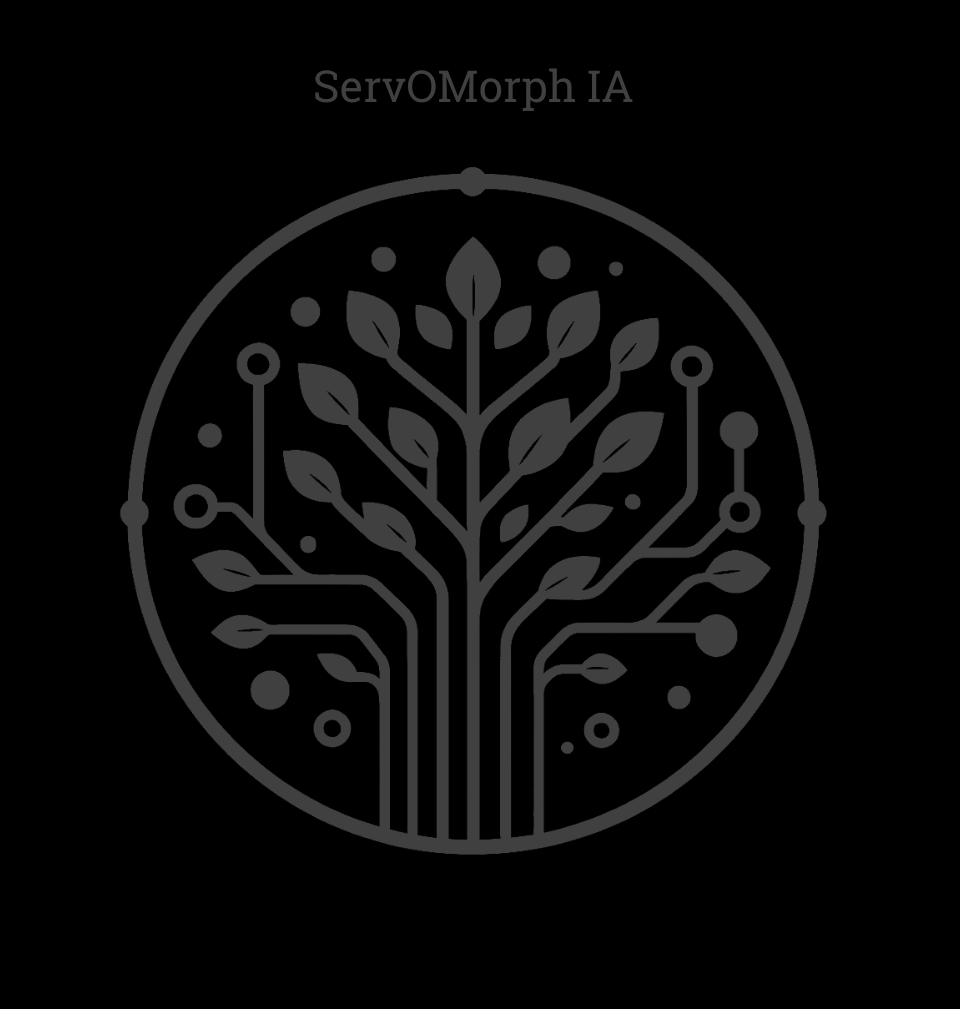
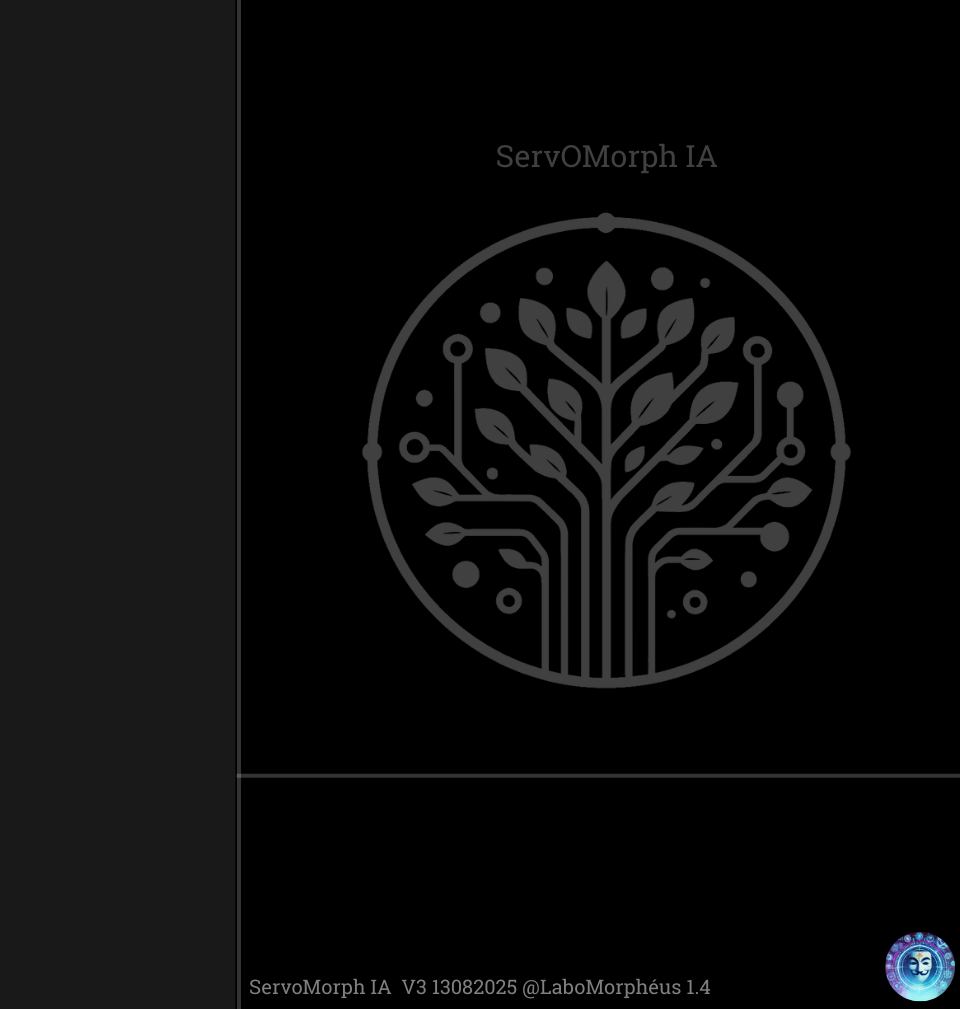
zone chat, param, conv créés

diff --git a/ui_main.py b/ui_main.py
@@ -2,7 +2,10 @@ import os
 import ctypes
 from ctypes import wintypes
 import pygame
-import config_ui  # ton fichier de config
+import ui.config_ui  
+from ui.zones.zone_chat import ZoneChat
+from ui.zones.zone_liste_conv import ZoneListeConv
+from ui.zones.zone_param import ZoneParam
 
 # --- Win32
 user32 = ctypes.windll.user32
@@ -50,7 +53,7 @@ def main():
 
     pygame.init()
     window = pygame.display.set_mode((win_w, win_h), pygame.RESIZABLE)
-    pygame.display.set_caption("IA_V3 - Interface Pygame (moitié gauche écran)")
+    pygame.display.set_caption("ServOMorph IA - V3")
 
     # Charger l'image de fond
     try:
@@ -68,6 +71,11 @@ def main():
             force_window_pos(hwnd, pos_x, pos_y)
     except Exception:
         pass
+    
+    # --- Création des zones ---
+    zone_chat = ZoneChat(window)
+    zone_liste_conv = ZoneListeConv(window)
+    zone_param = ZoneParam(window)
 
     running = True
     clock = pygame.time.Clock()
@@ -86,6 +94,11 @@ def main():
             window.blit(background, (0, 0))
         else:
             window.fill(getattr(config_ui, "WINDOW_BG_COLOR", (30, 30, 30)))
+
+        # Affichage de la zone de chat
+        zone_chat.afficher()
+        zone_liste_conv.afficher()
+        zone_param.afficher()
 
         pygame.display.flip()
         clock.tick(60)

diff --git a/ui/zones/zone_base.py b/ui/zones/zone_base.py
@@ -1,0 +1,24 @@
+import pygame
+
+class ZoneBase:
+    def __init__(self, surface, x, y, width, height, bg_color, nom_zone="Zone"):
+        """
+        Classe de base pour toutes les zones UI.
+        """
+        self.surface = surface
+        self.rect = pygame.Rect(x, y, width, height)
+        self.bg_color = bg_color
+        self.nom_zone = nom_zone
+        # Police par défaut
+        self.font = pygame.font.Font(None, 24)  # 24 px
+
+    def afficher(self):
+        """Dessine uniquement le fond de la zone."""
+        pygame.draw.rect(self.surface, self.bg_color, self.rect)
+
+         # Titre
+        texte_surface = self.font.render(self.nom_zone, True, (0, 0, 0))  # Noir
+        self.surface.blit(
+            texte_surface,
+            (self.rect.x + 2, self.rect.y + 2)  # un petit décalage du bord
+        )

diff --git a/ui/config_ui.py b/ui/config_ui.py
@@ -1,0 +1,23 @@
+# Couleur de fond par défaut
+WINDOW_BG_COLOR = (30, 30, 30)
+
+# --- Zone Chat ---
+ZONE_CHAT_X = 241
+ZONE_CHAT_Y = 0
+ZONE_CHAT_WIDTH = 722
+ZONE_CHAT_HEIGHT = 773
+ZONE_CHAT_BG_COLOR = (255, 192, 203)   # Rose clair
+
+# --- Zone Liste Conversations ---
+ZONE_LISTE_X = 0
+ZONE_LISTE_Y = 0
+ZONE_LISTE_WIDTH = 236
+ZONE_LISTE_HEIGHT = 773
+ZONE_LISTE_BG_COLOR = (200, 200, 200)  # Gris clair
+
+# --- Zone Paramètres ---
+ZONE_PARAM_X = 0
+ZONE_PARAM_Y = 778
+ZONE_PARAM_WIDTH = 236
+ZONE_PARAM_HEIGHT = 222
+ZONE_PARAM_BG_COLOR = (180, 180, 180)

diff --git a/ui/zones/zone_liste_conv.py b/ui/zones/zone_liste_conv.py
@@ -1,0 +1,20 @@
+from ui.zones.zone_base import ZoneBase
+from ui.config_ui import (
+    ZONE_LISTE_X,
+    ZONE_LISTE_Y,
+    ZONE_LISTE_WIDTH,
+    ZONE_LISTE_HEIGHT,
+    ZONE_LISTE_BG_COLOR,
+)
+
+class ZoneListeConv(ZoneBase):
+    def __init__(self, surface):
+        super().__init__(
+            surface,
+            ZONE_LISTE_X,
+            ZONE_LISTE_Y,
+            ZONE_LISTE_WIDTH,
+            ZONE_LISTE_HEIGHT,
+            ZONE_LISTE_BG_COLOR,
+            nom_zone="Conversations sauvegardées"
+        )

diff --git a/ui/zones/zone_param.py b/ui/zones/zone_param.py
@@ -1,0 +1,20 @@
+from ui.zones.zone_base import ZoneBase
+from ui.config_ui import (
+    ZONE_PARAM_X,
+    ZONE_PARAM_Y,
+    ZONE_PARAM_WIDTH,
+    ZONE_PARAM_HEIGHT,
+    ZONE_PARAM_BG_COLOR,
+)
+
+class ZoneParam(ZoneBase):
+    def __init__(self, surface):
+        super().__init__(
+            surface,
+            ZONE_PARAM_X,
+            ZONE_PARAM_Y,
+            ZONE_PARAM_WIDTH,
+            ZONE_PARAM_HEIGHT,
+            ZONE_PARAM_BG_COLOR,
+            nom_zone="Paramètres"
+        )

diff --git a/ui/zones/zone_chat.py b/ui/zones/zone_chat.py
@@ -1,0 +1,20 @@
+from ui.zones.zone_base import ZoneBase
+from ui.config_ui import (
+    ZONE_CHAT_X,
+    ZONE_CHAT_Y,
+    ZONE_CHAT_WIDTH,
+    ZONE_CHAT_HEIGHT,
+    ZONE_CHAT_BG_COLOR,
+)
+
+class ZoneChat(ZoneBase):
+    def __init__(self, surface):
+        super().__init__(
+            surface,
+            ZONE_CHAT_X,
+            ZONE_CHAT_Y,
+            ZONE_CHAT_WIDTH,
+            ZONE_CHAT_HEIGHT,
+            ZONE_CHAT_BG_COLOR,
+            nom_zone="Zone Chat"
+        )
